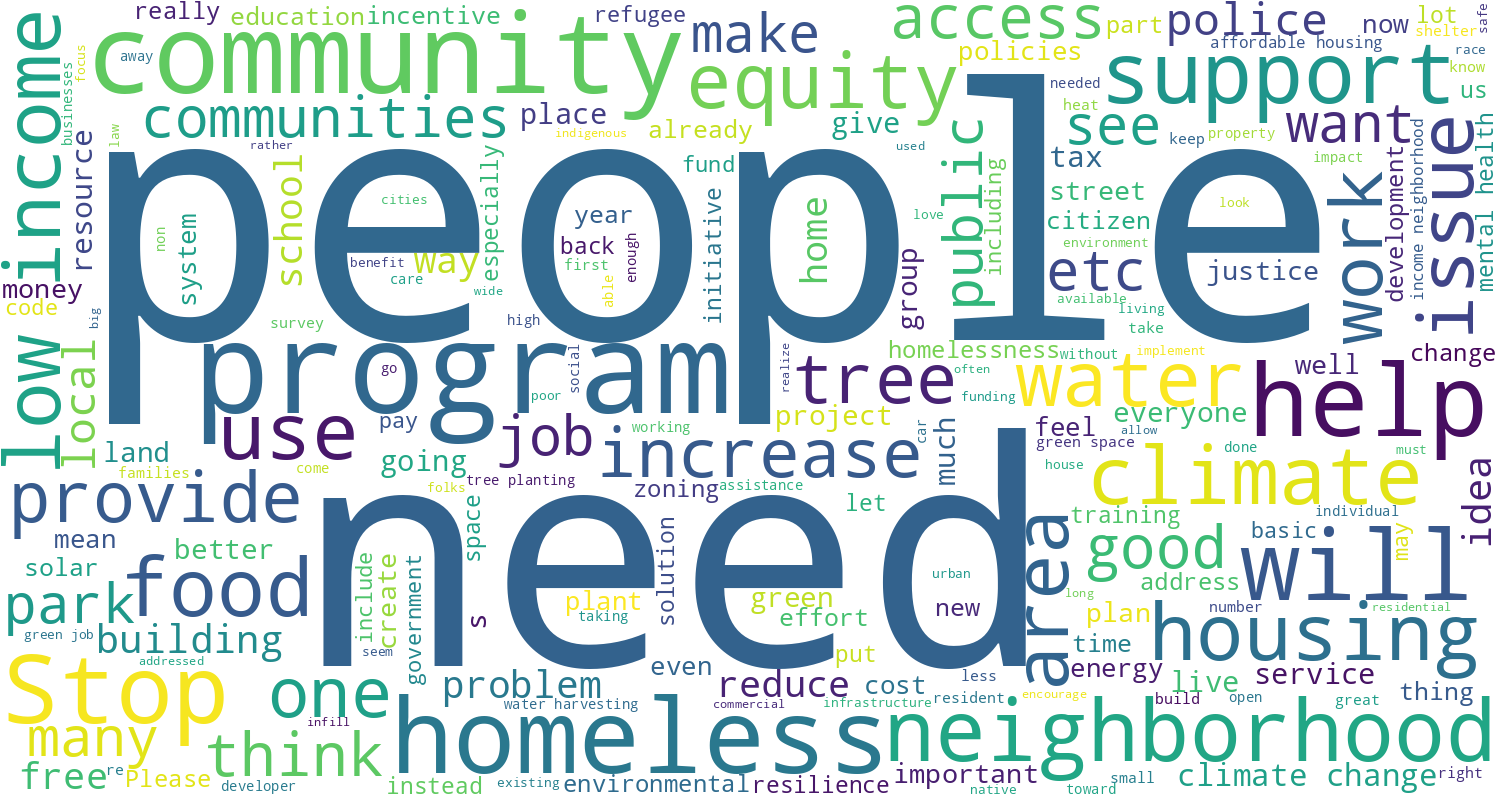
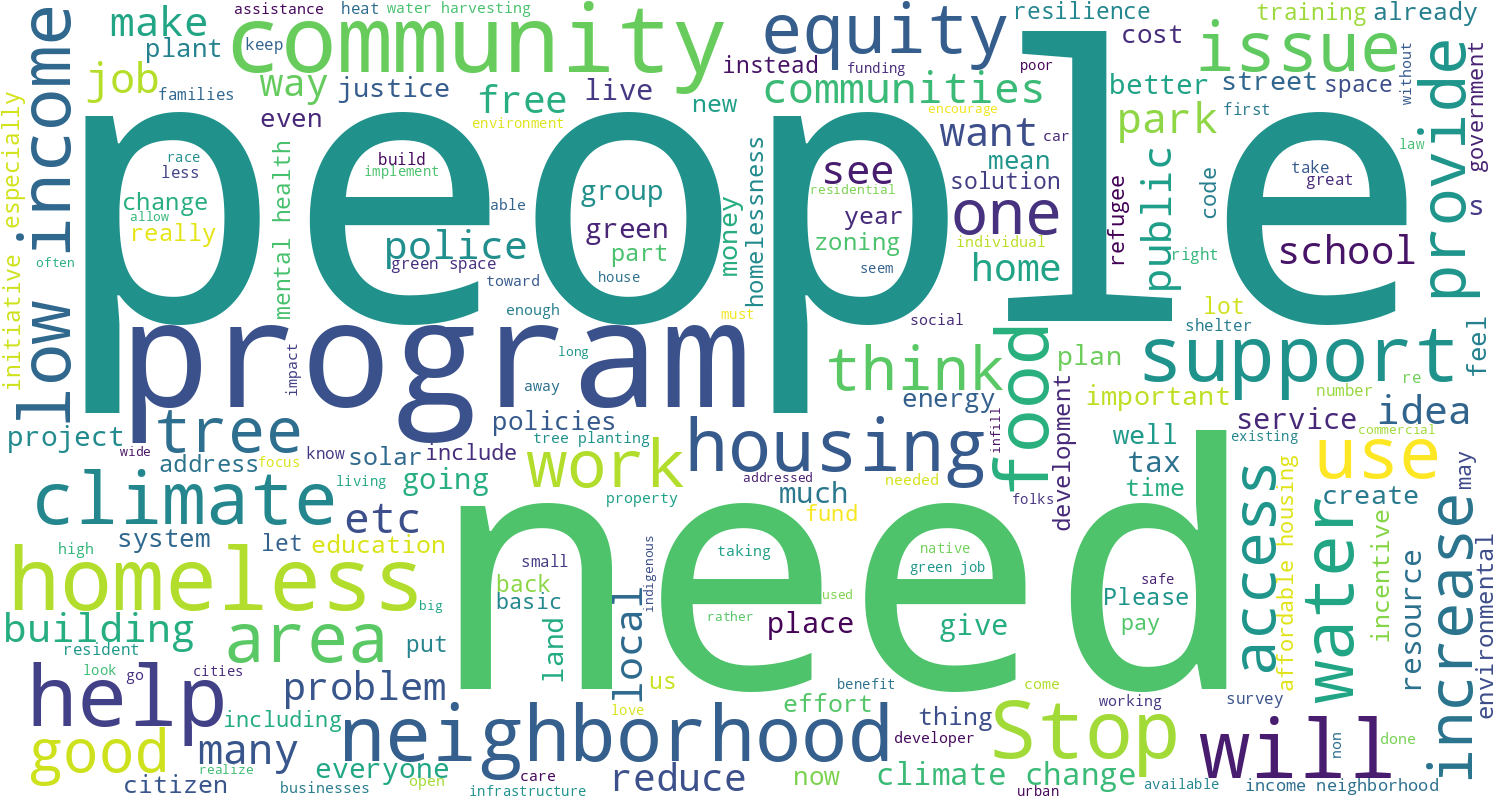
feat: add wordclouds by sentiment

diff --git a/app/services/analysis_service.py b/app/services/analysis_service.py
@@ -77,7 +77,7 @@ class AnalysisService(metaclass=SingletonMeta):
 
             new_rows = []
 
-            for index, row in training_tdm_df.iterrows():
+            for index, row in q_df.iterrows():
                 row_data = {}
                 for column in word_columns:
                     if column in row['answer']:
@@ -100,7 +100,35 @@ class AnalysisService(metaclass=SingletonMeta):
             # Do the predictions
             predictions = model.predict(target_tdm_df)
 
-            print(predictions)
+            positives = []
+            negatives = []
+
+            for i in range(len(predictions)):
+                prediction = predictions[i]
+
+                if prediction == 1:
+                    positives.append(q_df['answer'].values[i])
+                elif prediction == -1:
+                    negatives.append(q_df['answer'].values[i])
+
+            # Generate wordcloud for question positive answers
+            wordcloud_service.generate_wordcloud(
+                text=', '.join(str(x) for x in positives),
+                title=questions[question],
+                file_path=f'resources/wordclouds/{question}_POS.png'
+            )
+
+            # Generate wordcloud for question negative answers
+            wordcloud_service.generate_wordcloud(
+                text=', '.join(str(x) for x in negatives),
+                title=questions[question],
+                file_path=f'resources/wordclouds/{question}_NEG.png'
+            )
+
+            print(question)
+            print(f'pos: {len(positives)}')
+            print(f'neg: {len(negatives)}')
+            print()
 
     def logistic_regression(
         self,
